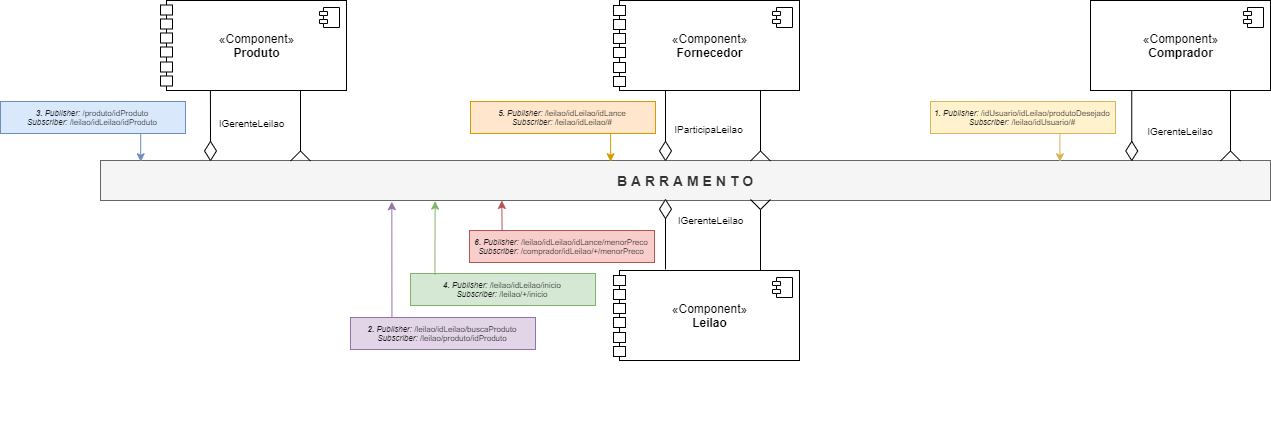
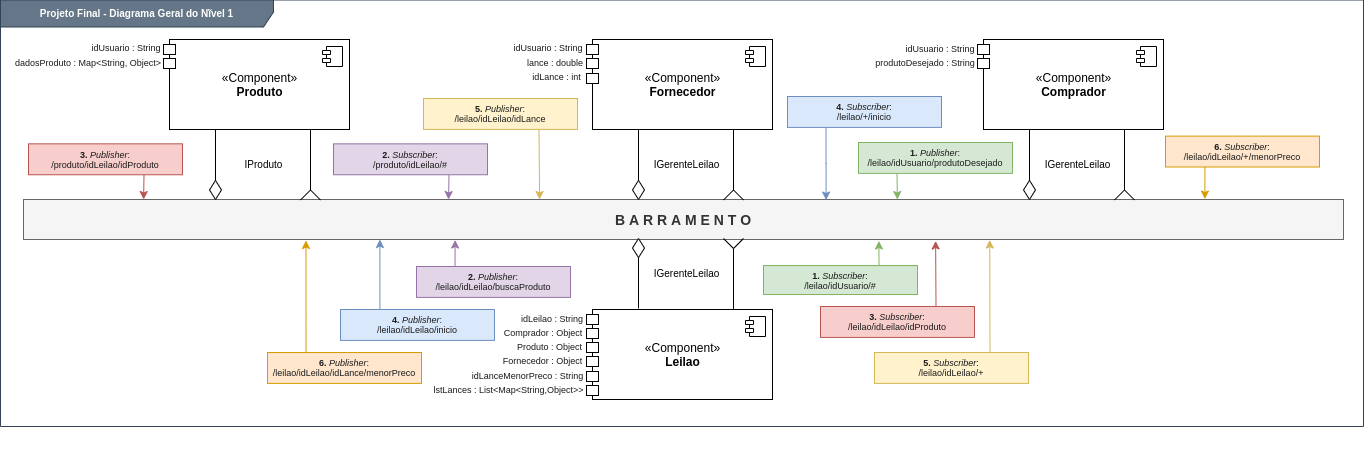
Diagrama de barramento concluído para ser revisado.

diff --git a/Projeto Final/README.md b/Projeto Final/README.md
@@ -1,11 +1,16 @@
-# `Ranqueamento por Avaliação de Fornecedores e Leilão invertido`
+# Ranqueamento por Avaliação de Fornecedores e Leilão invertido
 
 # Equipe
 * eNove
 
-# Nível 1
+### Membros
+* Andrew Siqueira Guedes
+* Fernando de Morais
+* Rafael Mardegan Marquini
+* Rodolfo Dalla Costa
+* Ronaldo de Moraes Galvão
 
-Apresente aqui o detalhamento do Nível 1 conforme detalhado na especificação com, no mínimo, as seguintes subseções:
+# Nível 1
 
 ## Diagrama Geral do Nível 1
 
@@ -15,35 +20,34 @@ Apresente um diagrama conforme o modelo a seguir:
 
 ### Detalhamento da interação de componentes
 
-O detalhamento deve seguir um formato de acordo com o exemplo a seguir:
+1. O componente `Comprador` publica o tópico "`/leilao/idUsuario/produtoDesejado`" pela interface **IGerenteLeilao** que é subscrito pelo componente `Leilao`. Desta forma, há demonstração de interesse de um comprador por um produto;
+2. O componente `Leilao` publica o tópico "`/leilao/idLeilao/buscaProduto`" pela interface **IGerenteLeilao** que é subscrito pelo componente `Produto`. Assim, ocorre a interação Comprador - Produto pela interface **IGerenteLeilao**;
+3. O componente `Produto` publica o tópico pela interface **IProduto** "`/produto/idLeilao/idProduto`" que é subscrito pelo componente `Leilao`, novamente. Logo, um novo leilão poderá ser iniciado ou um em andamento será associado com este novo comprador;
+4. O componente `Leilao` inicia o leilao publicando o tópico "`/leilao/idLeilao/inicio`" pela interface **IGerenteLeilao** que é subscrito pelo componente `Fornecedor`;
+5. O componente `Fornecedor` publica o tópico "`/leilao/idLeilao/idLance`" através da interface **IGerenteLeilao** que é subscrito pelo componente `Leilao`, onde pelo _idLeilao_ aguarda distintos lances;
+6. Por fim, o componente `Leilao` publica o tópico "`/leilao/idLeilao/idLance/menorPreco`" através da interface **IGerenteLeilao** que é subscrito pelo componente `Comprador`, que aguarda e irá receber o resultado do leilão.
 
-1. O Componente `Leilao` lê o tópico "`produtoDesejado/idLeilao`" para verificar se já existe algum leilão para aquele produto. 
-1. O componente `Leilao` inicia o leilão publicando no barramento a mensagem de tópico "`produtoDesejado/idLeilao/idUsuario`" através da interface `IGerenteLeilao`.
-1. Os componentes `Comprador` e `Produto`, também assinam o barramento para "`produtoDesejado/idLeilao/idUsuario`" iniciando assim o monitoramento deste tópico e a Interação entre `Leilao`, `Comprador` e `Produto`.
-1. O compomente `Fornecedor` assina no barramento mensagens de tópico "`leilão/idLeilao/início`" através da interface `IParticipaLeilao`. 
-1. Quando `Fornecedor` recebe uma mensagem no tópico "`leilão/idLeilao/início`" o componente subscreve o outro tópico "`idUsuario/idLeilao/produtoDesejado`" e por sua vez inicia sua participação do leilão publicando ao componente `Comprador`.
+## A seguir temos a descrição dos componentes:
 
-A seguir temos a descrição dos componentes:
-
-## Componente `Comprador`
-
-> <Resumo do papel do componente e serviços que ele oferece.>
-
-![Componente](diagrama-componente-mensagens.png)
-
-## Componente `Produto`
+### Componente `Comprador`
 
 > <Resumo do papel do componente e serviços que ele oferece.>
 
 ![Componente](diagrama-componente-mensagens.png)
 
-## Componente `Fornecedor`
+### Componente `Produto`
 
 > <Resumo do papel do componente e serviços que ele oferece.>
 
 ![Componente](diagrama-componente-mensagens.png)
 
-## Componente `Leilao`
+### Componente `Fornecedor`
+
+> <Resumo do papel do componente e serviços que ele oferece.>
+
+![Componente](diagrama-componente-mensagens.png)
+
+### Componente `Leilao`
 
 > <Resumo do papel do componente e serviços que ele oferece.>
 
